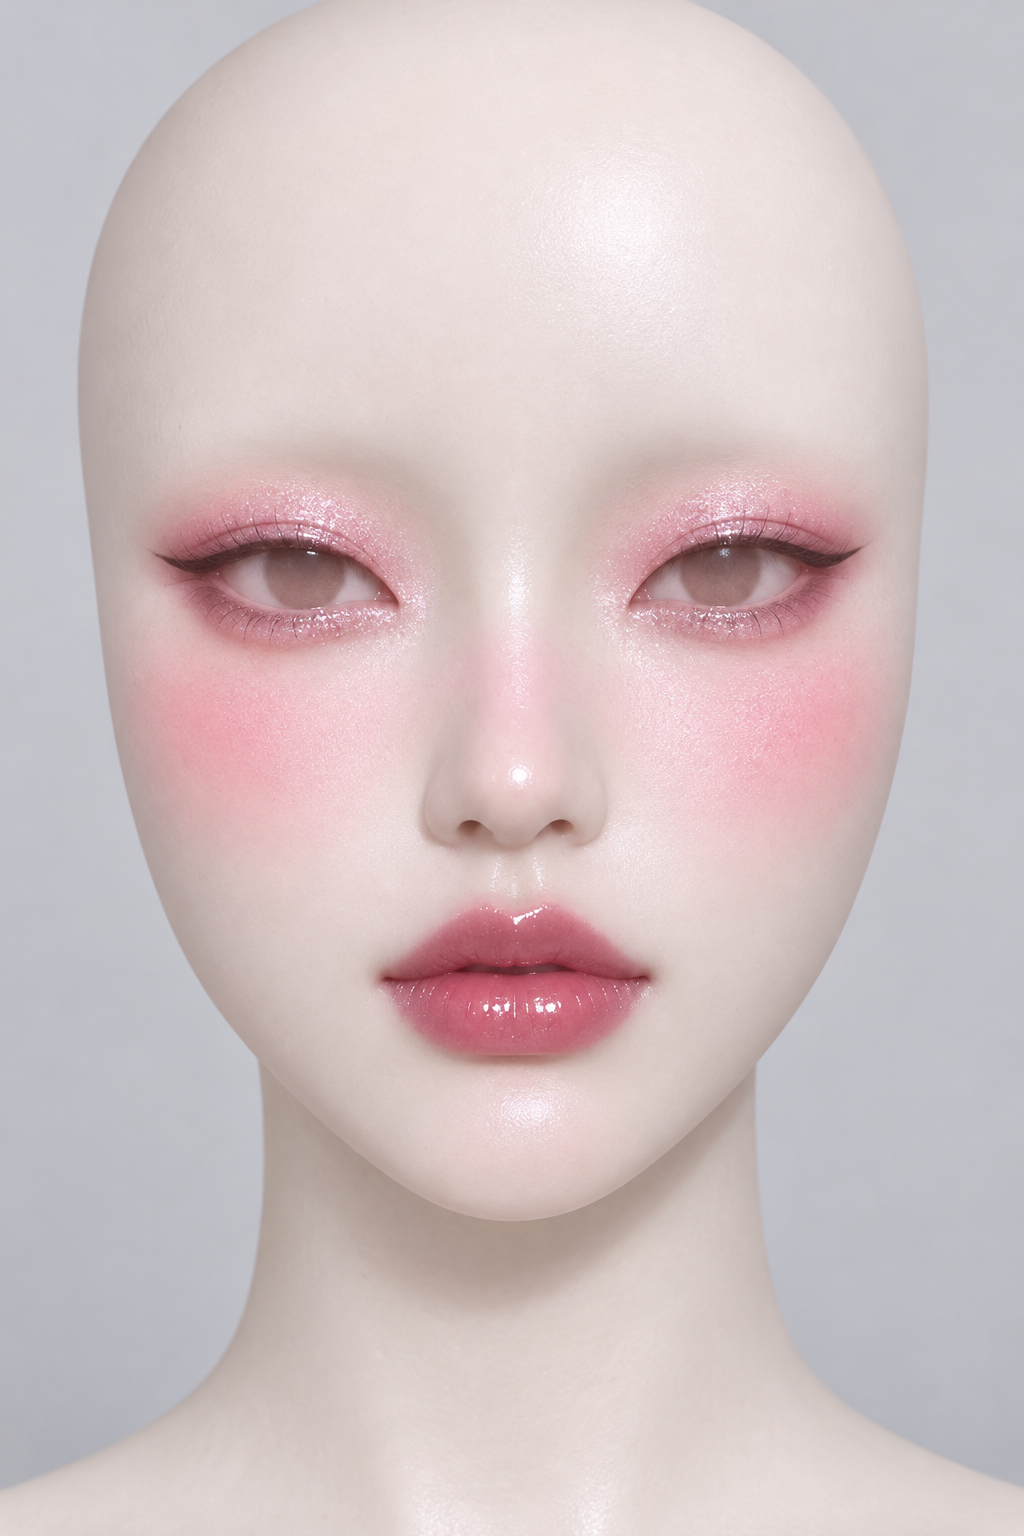
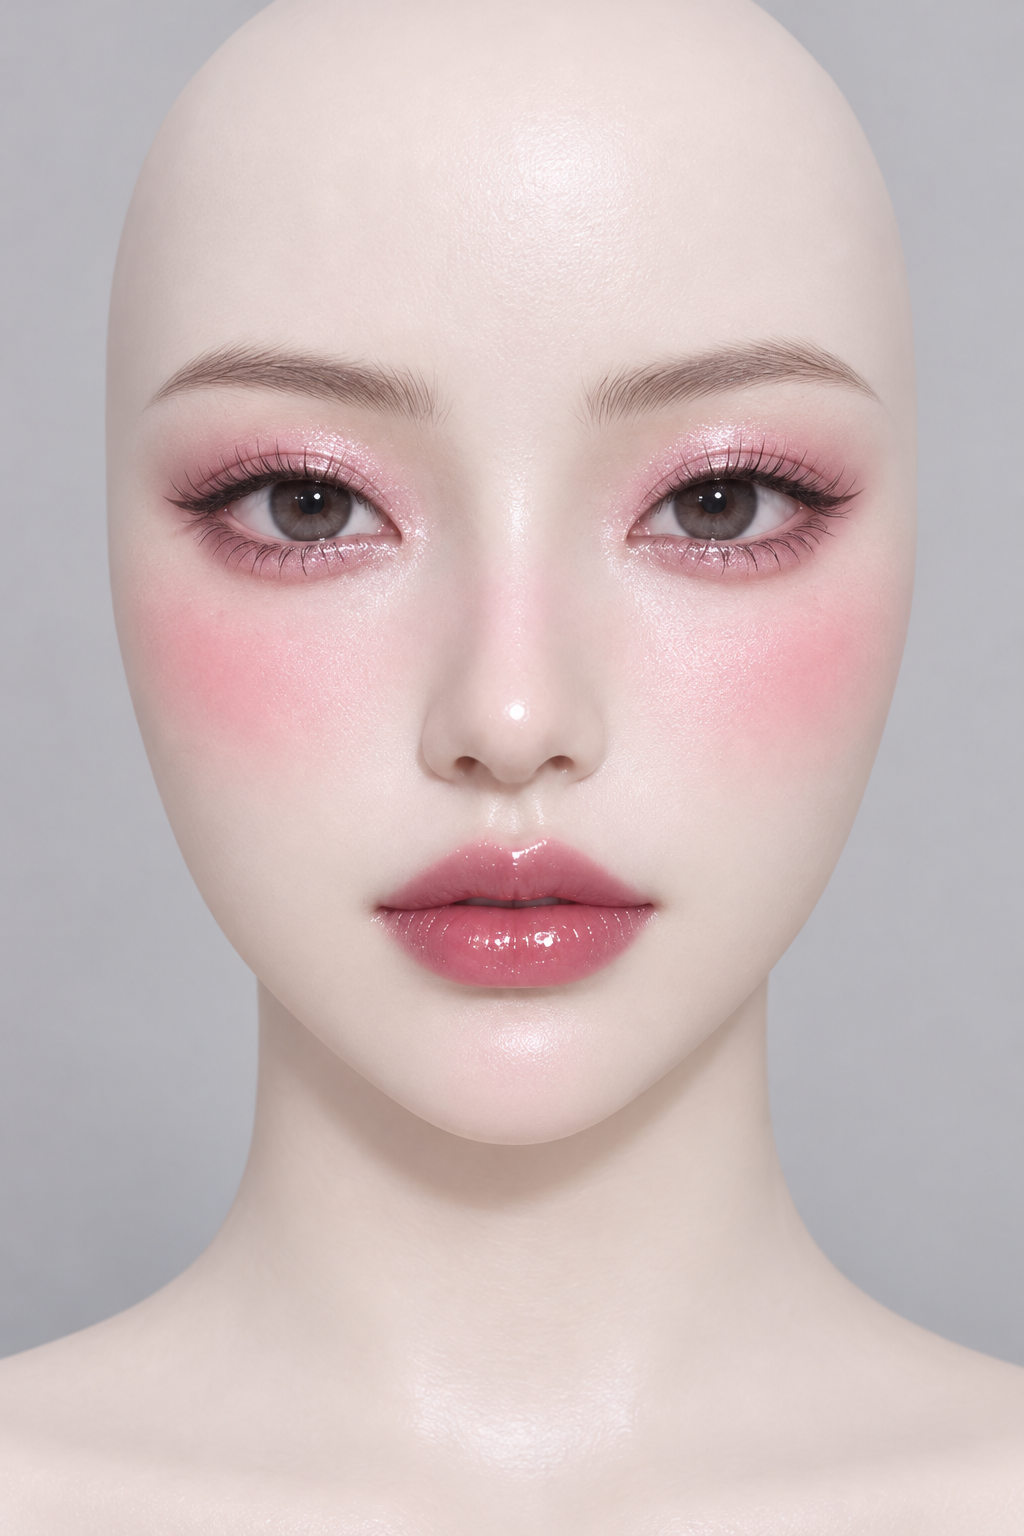
feat: generic featureless mannequin with plain eyebrows (makeup-only focus)

diff --git a/src/lib/imagegen.ts b/src/lib/imagegen.ts
@@ -49,7 +49,7 @@ Keep everything else in image 1 identical: same person, face, skin tone and text
 
 export function mannequinPrompt(a: LookAnalysis | undefined): string {
   const steps = a?.steps ?? [];
-  return `Image 1 is a reference makeup look. Create a clean studio product-style render of ONLY the makeup, on a completely featureless bald mannequin head: smooth matte white-ivory porcelain, NO hair, NO wig, NO ears, NO eyebrows, NO eyelashes, NO personality. The face is a minimal sculpted form (only the soft shape of the eye sockets, nose bridge and lips needed to carry makeup), like a cosmetics-counter display head. Head and neck only, front-facing, tightly framed, centered, on a plain seamless light neutral-gray backdrop with soft even studio light. Paint ONLY the makeup from image 1 onto it, with the reference's exact original colors, placement and finishes, so that the makeup itself is the only thing that stands out: ${steps
+  return `Image 1 is a reference makeup look. Create a clean studio product-style render of ONLY the makeup, on a generic, anonymous cosmetics-counter display mannequin head: smooth matte white-ivory porcelain, NO hair, NO wig, NO ears, NO personality. Its facial features are deliberately minimal, neutral and standardized, with nothing distinctive: a plain symmetrical oval face, softly sculpted generic eye sockets, a simple straight nose bridge, an unremarkable lip shape, and simple natural-looking eyebrows and soft lashes (eyebrows are present but plain and generic). The same generic mannequin face for every look, so no viewer notices the face at all and attention goes only to the makeup. Head and neck only, front-facing, tightly framed, centered, on a plain seamless light neutral-gray backdrop with soft even studio light. Paint ONLY the makeup from image 1 onto it, with the reference's exact original colors, placement and finishes, so that the makeup itself is the only thing that stands out: ${steps
     .filter((s) => s.area !== "skincare")
     .map((s) => `${s.area}: ${s.colors.map((x) => `${x.name} ${x.hex}`).join(", ")}, ${s.finish}`)
     .join("; ")}. Photorealistic, no text.`;
